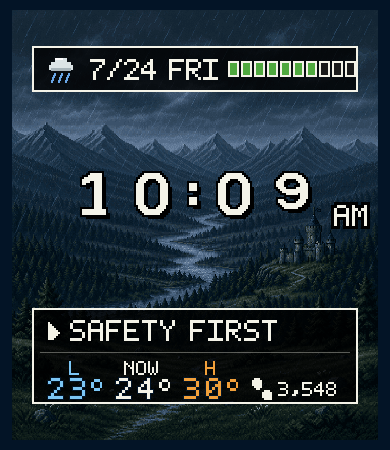
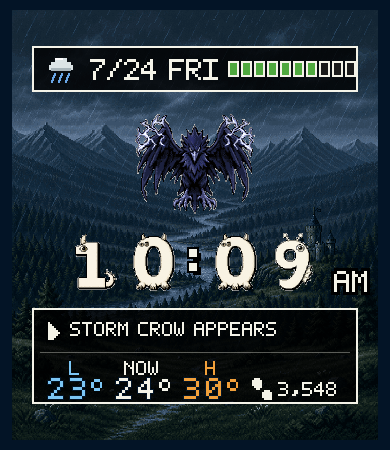
feat: rebuild watchface as a JRPG battle scene
Replace the copy-preset system with an hourly boss encounter:

- Add watchface/boss.js mapping hour 0-12 to 13 boss sprites and names,
  with strict input validation matching battery.js conventions.
- Draw the boss above the clock and swap the bottom-window line to
  "<NAME> APPEARS!" so the face reads as an encounter, not a dashboard.
- Swap the clock to monster-shaped digit sprites (52x72) normalized from
  the 2x source art; centre the digit block on its own so the 12h/24h
  toggle no longer shifts it.
- Rework layout.js into two bordered windows that clear the rounded
  display's corner arc (verified at R=105 by tools/check-safe-area.mjs).
- Trim theme colours to white/black/cool/warm and move LOW_BLUE off the
  rain-droplet value.
- Add tools/normalize-sprites.mjs for the 2:1 alpha-weighted downscale,
  plus tests/boss.test.mjs.
- Remove watchface/copy.js and its setting/app-side plumbing.

Claude-Session: https://claude.ai/code/session_01QBd6PqWoxxrAqj9wTCbZ4e

diff --git a/watchface/index.js b/watchface/index.js
@@ -4,7 +4,7 @@ import { log } from '@zos/utils'
 import { BasePage } from '@zeppos/zml/base-page'
 import { LAYOUT, SCREEN } from './layout.js'
 import { COLORS, TYPE } from './theme.js'
-import { getCopyPreset } from './copy.js'
+import { getBossName, getBossSprite } from './boss.js'
 import {
   TOTAL_SEGMENTS,
   getBatteryColorKey,
@@ -100,10 +100,10 @@ WatchFace(
     date: null,
     hpSegments: [],
     aod: null,
-    copyText: null,
+    encounter: null,
+    boss: null,
     step: null,
     steps: null,
-    presetIndex: 0,
     weatherTheme: 'clear_day',
     debugIndex: 0,
     debugTick: 0,
@@ -118,7 +118,6 @@ WatchFace(
     this.state.battery = new Battery()
     this.state.step = new Step()
     this.state.weather = hmSensor.createSensor(hmSensor.id.WEATHER)
-    this.state.presetIndex = hmFS.SysProGetInt('pixel_wayfarer_preset') || 0
     this.state.debugIndex = normalizeDebugIndex(
       hmFS.SysProGetInt('pixel_wayfarer_debug_theme') || 0,
     )
@@ -131,7 +130,6 @@ WatchFace(
     this.updateBattery()
     this.updateSteps()
     this.updateWeather()
-    this.loadMessagePreset()
     this.loadDebugTheme()
     this.startCycleTimer()
 
@@ -175,6 +173,7 @@ WatchFace(
     })
 
     this.drawTopWindow()
+    this.drawBoss()
     this.drawTime()
     this.drawBottomWindow()
   },
@@ -224,11 +223,20 @@ WatchFace(
     }
   },
 
-  // 時刻は窓を持たず背景へ直接。数字側の縁取りと影で視認性を確保する。
+  // 中ボス。時ごとに入れ替わる「今の時間の敵」。
+  drawBoss() {
+    this.state.boss = ui.createWidget(ui.widget.IMG, {
+      ...LAYOUT.boss,
+      src: 'images/boss/00.png',
+      show_level: ui.show_level.ONLY_NORMAL,
+    })
+  },
+
+  // 時刻は窓を持たず背景へ直接。数字はモンスター字形で、縁取りと影を焼いてある。
   drawTime() {
     this.state.mainTime = createTimeSprites({
       y: LAYOUT.time.y,
-      digitPath: 'images/digits/time',
+      digitPath: 'images/digits/monster',
       digitW: LAYOUT.time.digitW,
       digitH: LAYOUT.time.digitH,
       colonW: LAYOUT.time.colonW,
@@ -254,11 +262,10 @@ WatchFace(
       src: 'images/cursor.png',
       show_level: ui.show_level.ONLY_NORMAL,
     })
-    const preset = getCopyPreset(this.state.presetIndex)
-    this.state.copyText = textWidget(
-      LAYOUT.copyText,
-      preset.text,
-      TYPE.copyText,
+    this.state.encounter = textWidget(
+      LAYOUT.encounterText,
+      '',
+      TYPE.encounter,
       COLORS.TEXT_PRIMARY,
       ui.align.LEFT,
       ui.show_level.ONLY_NORMAL,
@@ -335,6 +342,16 @@ WatchFace(
           : 'images/ampm/pm.png'
         : 'images/ampm/blank.png',
     })
+
+    // 中ボスは表示時刻の「時」で決まる。24時間制の午後は午前と同じ敵になる。
+    this.state.boss.setProperty(
+      ui.prop.SRC,
+      `images/boss/${getBossSprite(displayHour)}.png`,
+    )
+    this.state.encounter.setProperty(
+      ui.prop.TEXT,
+      `${getBossName(displayHour)} APPEARS!`,
+    )
 
     const weekday = WEEKDAYS[time.getDay() - 1] || '---'
     const dateText = `${time.getMonth()}/${time.getDate()} ${weekday}`
@@ -438,28 +455,8 @@ WatchFace(
       })
   },
 
-  applyMessagePreset(value) {
-    const preset = getCopyPreset(value)
-    this.state.presetIndex = Number(value) || 0
-    hmFS.SysProSetInt('pixel_wayfarer_preset', this.state.presetIndex)
-    if (this.state.copyText) {
-      this.state.copyText.setProperty(ui.prop.TEXT, preset.text)
-    }
-  },
-
-  loadMessagePreset() {
-    this.request({ method: 'GET_MESSAGE_PRESET' })
-      .then(({ presetIndex }) => this.applyMessagePreset(presetIndex))
-      .catch(() => {
-        logger.log('Using cached message preset')
-      })
-  },
-
   onCall(data) {
     if (!data) return
-    if (data.type === 'MESSAGE_PRESET_CHANGED') {
-      this.applyMessagePreset(data.presetIndex)
-    }
     if (data.type === 'DEBUG_THEME_CHANGED') {
       this.applyDebugTheme(data.debugIndex)
     }

diff --git a/setting/index.js b/setting/index.js
@@ -1,4 +1,3 @@
-import { COPY_PRESETS, normalizePresetIndex } from '../watchface/copy.js'
 import {
   DEBUG_CYCLE,
   DEBUG_MODES,
@@ -6,7 +5,6 @@ import {
   normalizeDebugIndex,
 } from '../watchface/debug-theme.js'
 
-const PRESET_KEY = 'messagePreset'
 const DEBUG_KEY = 'debugTheme'
 
 const DEBUG_LABELS = {
@@ -63,16 +61,7 @@ function optionButton({ label, selected, onClick }) {
 
 AppSettingsPage({
   build(props) {
-    const selectedPreset = normalizePresetIndex(props.settingsStorage.getItem(PRESET_KEY))
     const selectedDebug = normalizeDebugIndex(props.settingsStorage.getItem(DEBUG_KEY))
-
-    const presetButtons = COPY_PRESETS.map((preset, index) =>
-      optionButton({
-        label: `${preset.label} — ${preset.text}`,
-        selected: index === selectedPreset,
-        onClick: () => props.settingsStorage.setItem(PRESET_KEY, String(index)),
-      }),
-    )
 
     const debugButtons = DEBUG_MODES.map((mode, index) =>
       optionButton({
@@ -90,9 +79,7 @@ AppSettingsPage({
         },
       },
       [
-        sectionTitle('Message preset', '0'),
-        ...presetButtons,
-        sectionTitle('Background preview (debug)', '24px'),
+        sectionTitle('Background preview (debug)', '0'),
         note(
           'Forces a background and weather icon so every theme can be checked on the watch. ' +
             'Cycle advances through all 10 themes every 3 seconds; it runs only while the ' +

diff --git a/app-side/index.js b/app-side/index.js
@@ -1,13 +1,7 @@
 import { BaseSideService, settingsLib } from '@zeppos/zml/base-side'
-import { normalizePresetIndex } from '../watchface/copy.js'
 import { normalizeDebugIndex } from '../watchface/debug-theme.js'
 
-const PRESET_KEY = 'messagePreset'
 const DEBUG_KEY = 'debugTheme'
-
-function readPreset() {
-  return normalizePresetIndex(settingsLib.getItem(PRESET_KEY))
-}
 
 function readDebugTheme() {
   return normalizeDebugIndex(settingsLib.getItem(DEBUG_KEY))
@@ -16,10 +10,6 @@ function readDebugTheme() {
 AppSideService(
   BaseSideService({
     onRequest(req, res) {
-      if (req.method === 'GET_MESSAGE_PRESET') {
-        res(null, { presetIndex: readPreset() })
-        return
-      }
       if (req.method === 'GET_DEBUG_THEME') {
         res(null, { debugIndex: readDebugTheme() })
         return
@@ -27,12 +17,6 @@ AppSideService(
       res(new Error(`Unsupported request: ${req.method}`))
     },
     onSettingsChange({ key }) {
-      if (key === PRESET_KEY) {
-        this.call({
-          type: 'MESSAGE_PRESET_CHANGED',
-          presetIndex: readPreset(),
-        })
-      }
       if (key === DEBUG_KEY) {
         this.call({
           type: 'DEBUG_THEME_CHANGED',

diff --git a/watchface/boss.js b/watchface/boss.js
@@ -1,0 +1,37 @@
+// 時（0〜12）に対応する中ボス。12時間制の表示時刻をそのまま鍵にする。
+// 24時間制でも 13〜23時は 1〜11 へ畳んで同じ敵を出す。
+export const BOSS_COUNT = 13
+
+export const BOSS_NAMES = Object.freeze([
+  'NIGHT WRAITH',
+  'MOTH SENTINEL',
+  'CAVE CRAWLER',
+  'STONE GARGOYLE',
+  'DAWN WISP',
+  'ROOSTER GOLEM',
+  'MEADOW SPROUT',
+  'SUNLIT LIZARD',
+  'SAND SCORPION',
+  'MIRROR SLIME',
+  'STORM CROW',
+  'IRON SENTRY',
+  'NOON GUARDIAN',
+])
+
+// battery.js と同じく、型は厳密に見る。センサーは数値を返すため、
+// 文字列や範囲外が来た時点で異常であり、黙って解釈しない。
+export function normalizeBossIndex(hour) {
+  if (typeof hour !== 'number' || !Number.isInteger(hour) || hour < 0 || hour > 23) {
+    return 0
+  }
+  // 0〜12はそのまま、13〜23は12を引いて1〜11へ畳む。
+  return hour > 12 ? hour - 12 : hour
+}
+
+export function getBossSprite(hour) {
+  return String(normalizeBossIndex(hour)).padStart(2, '0')
+}
+
+export function getBossName(hour) {
+  return BOSS_NAMES[normalizeBossIndex(hour)]
+}

diff --git a/watchface/layout.js b/watchface/layout.js
@@ -28,15 +28,18 @@ export const LAYOUT = Object.freeze({
     gap: 2,
   },
 
+  // 中ボスは時ごとに入れ替わる。背景の完全可視ゾーンに立たせるため透過PNG。
+  boss: { x: 130, y: 104, w: 130, h: 110 },
+
   // 時刻は窓を持たず背景へ直接乗せる。数字列そのものを画面中央へ寄せ、
   // AM/PMはその右へ続ける。12h/24hや桁数で中心が動かないようにするため、
   // AM/PMの幅は中央寄せの計算に含めない。
-  time: { y: 160, digitW: 52, digitH: 72, colonW: 18, gap: 6 },
+  time: { y: 226, digitW: 52, digitH: 72, colonW: 18, gap: 6 },
   amPm: { w: 44, h: 30, gap: 8, offsetY: 40 },
 
   bottomWindow: { x: WINDOW_X, y: 308, w: WINDOW_W, h: 96 },
   copyCursor: { x: 48, y: 322, w: 14, h: 18 },
-  copyText: { x: 70, y: 316, w: 272, h: 28 },
+  encounterText: { x: 70, y: 316, w: 272, h: 28 },
   divider: { x: INNER_X, y: 352, w: INNER_W, h: 1 },
   temperature: {
     labelY: 358,

diff --git a/watchface/theme.js b/watchface/theme.js
@@ -22,7 +22,7 @@ export const COLORS = Object.freeze({
 export const TYPE = Object.freeze({
   date: 24,
   steps: 24,
-  copyText: 24,
+  encounter: 24,
   tempLabel: 20,
   aodDate: 24,
 })
